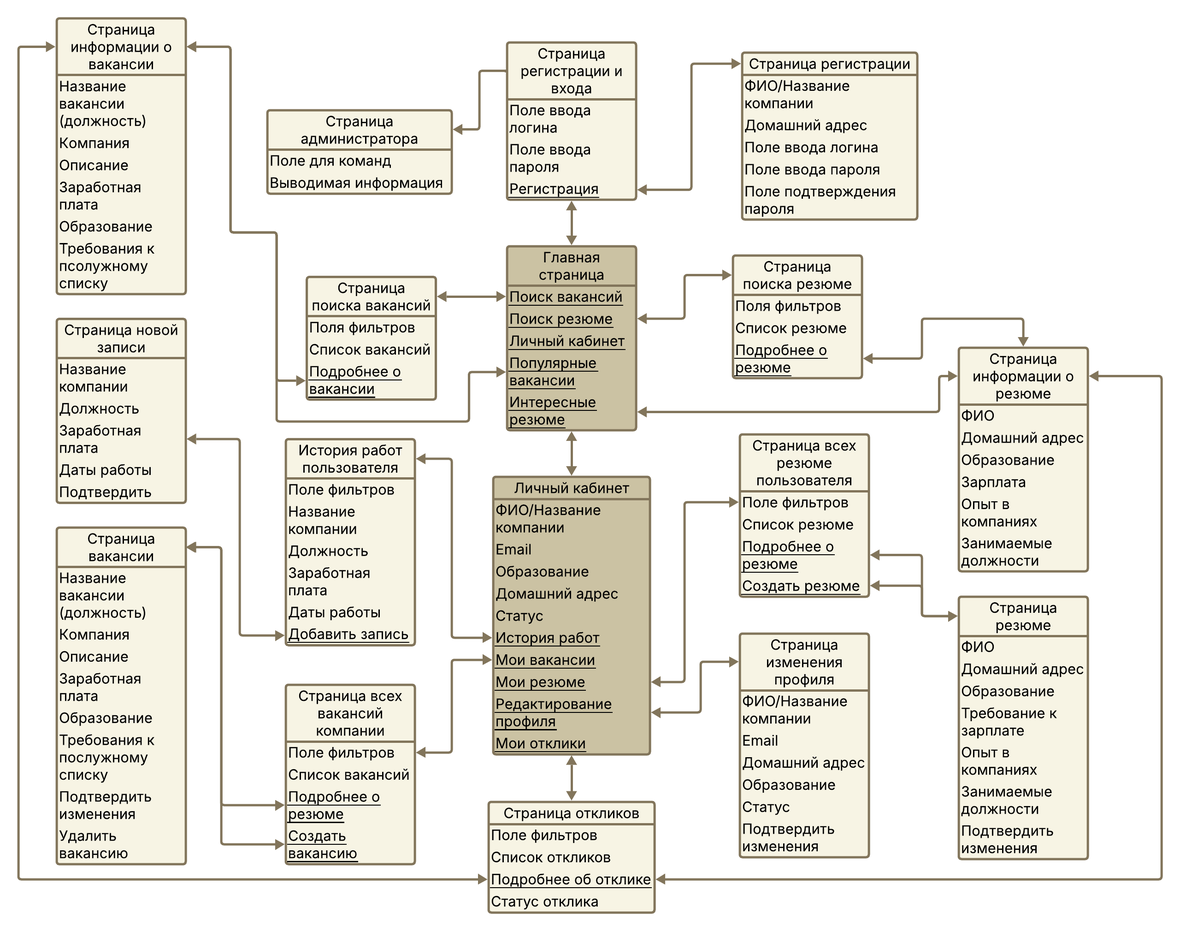
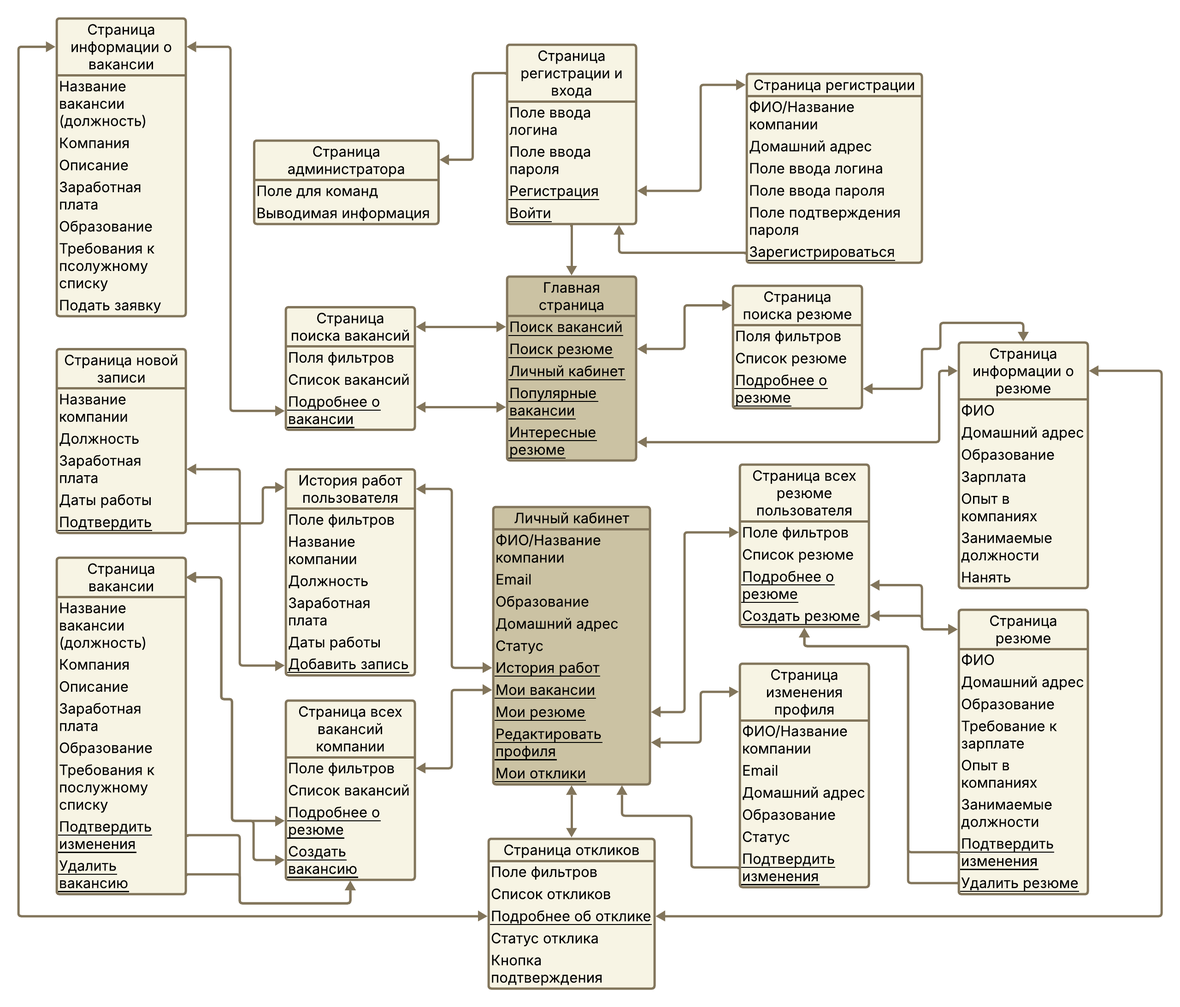
Correction of defects
- Correcting the page description, data information, and buttons on it
- Clarifying usage scenarios
- Adjusting the layout for site navigation, according to the new description

diff --git a/README.md b/README.md
@@ -12,11 +12,12 @@
 * Администратор (Ad)
 
 ### Главная страница
-* Переход на страницу с вакансиями
-* Переход на страницу с резюме
-* Переход в личный кабинет
 * Списком будут отображены самые популярные вакансии (в базе данных для этого храниться специальный атрибут)
 * Списком будут отображены самые популярные резюме (в базе данных для этого храниться специальный атрибут)
+* Кнопка перехода на **Страницу поиска вакансии**
+* Кнопка перехода на **Страницу поиска резюме**
+* Кнопка перехода в **Личный кабинет**
+
 
 ### Личный кабинет
 * Фамилия Имя Отчество (Ap) или Название компании (Em)
@@ -24,9 +25,9 @@
 * Ступень образования (Ap)
 * Домашний адрес (Ap)
 * Статус соискателя (Информация о том, ищет ли он работу или нет) (Ap)
-* Переход на историю трудоустройств соискателя (Ap)
-* Переход на страницу с вакансиями работодателя (Em)
-* Переход на страницу с резюме соискателя (Ap)
+* Кнопка перехода на страницу **История работ пользователя** (Ap)
+* Кнопка перехода на **Страницу всех вакансиями компании** (Em)
+* Кнопка перехода на **Страницу всех резюме пользователя** (Ap)
 * Кнопка **Редактировать профиль** нужна чтобы изменить данные в профиле (осуществиться переход на **Страницу изменения профиля**)
 * Кнопка **Мои отклики** реализует переход на страницу с ответами на заявки к конкретным вакансиям
 
@@ -34,11 +35,10 @@
 * Поле для ввода логина
 * Поле для ввода пароля
 * Кнопка регистрации (При отсутствии аккаунта/особом желании пользователь может зарегестрировать новый аккаунт)
-
-Если логин и пароль принадлежат (Ad), то осуществляется переход на специальную **Страницу администратора**.
+* Кнопка **Войти** активирует начало проверки данных. При совпадении данных, введённых пользователем, происходит переход на **Главную страницу**. Если логин и пароль принадлежат администратору (Ad), то осуществляется переход на специальную **Страницу администратора**.
 
 ### Страница администратора (Ad)
-* Поле для ввода команд, управляющих БД
+* Поле для ввода команд, управляющих БД (Терминал БД)
 * Поле для получения обратной и отладочной информации от БД
 
 ### Страница регистрации
@@ -47,6 +47,7 @@
 * Поле для ввода логина нового пользователя
 * Поле для ввода пароля нового пользователя
 * Поле для подтверждения пароля, который пользователь ввёл выше
+* Кнопка **Зарегистрироваться** инициирует запись нового пользователя в БД и осуществляет переход на **Страница регистрации и входа**
 
 ### Страница откликов
 * Специальные фильтры для более удобного вывода информации
@@ -55,8 +56,9 @@
   * Статус (_На модерации_, _Одобрено_, _Отклонено_)
   * Дата подачи
 * Далее будут расположены все обращения или ответы на резюме (Ap) и вакансии (Em) соответственно
-* На каждом из пунктов списка будет кнопка, которая реализует переход на страницу с подробной информацией о заявке
+* На каждом из пунктов списка будет кнопка **Подробнее об отклике**, которая реализует переход на страницу с подробной информацией о заявке
 * Статус отклика
+* Кнопка для выбора статуса отклика (Работодатель может выбрать статус для заявки на вакансию, а соискатель на предложение на своё резюме)
 
 ### Страница поиска вакансий
 * Специальные фильтры для более удобного вывода информации
@@ -65,7 +67,7 @@
   * Должность
   * Степень образования
 * Далее будет расположен список вакансий, удовлетворяющий условиям фильтрации
-* На каждом из пунктов списка будет кнопка, которая реализует переход на страницу с подробной информацией о вакансии
+* На каждом из пунктов списка будет кнопка **Подробнее о вакансии**, которая реализует переход на **Страницу информации о вакансии**
 
 ### Страница иформации о вакансии
 * Название вакансии
@@ -74,6 +76,7 @@
 * Предлагаемая заработная плата
 * Необходимое образование
 * Требования к послужному списку
+* Кнопка **Подать заявку** (При нажатии на неё создаётся отклик. Его можно будет посмотреть в личном кабинете. При повторном нажатии заявка будет отменена, а запись об отклике будет удалена)
 
 ### Страница поиска резюме
 * Специальные фильтры для более удобного вывода информации
@@ -82,7 +85,7 @@
   * Занимаемые должности
   * Требуемая заработная плата
 * Далее будет расположен список резюме, удовлетворяющий условиям фильтрации
-* На каждом из пунктов списка будет кнопка, которая реализует переход на страницу с подробной информацией о резюме
+* На каждом из пунктов списка будет кнопка **Подробнее о резюме**, которая реализует переход на **Страницу информации о резюме**
 
 ### Страница информации о резюме
 * Фамилия Имя Отчество
@@ -91,6 +94,7 @@
 * Заработная плата, которую хочет соискатель
 * Прошлый опыт в компаниях
 * Занимаемые должности
+* Кнопка **Нанять** (При нажатии на неё создаётся отклик. Его можно будет посмотреть в личном кабинете. При повторном нажатии заявка будет отменена, а запись об отклике будет удалена)
 
 ### История работ пользователя
 * Специальные фильтры для более удобного вывода информации
@@ -104,15 +108,15 @@
   * Заработная плата
   * Даты начала работы на этой должности
   * Даты окончания работы на этой должности
-* Переход на форму для создания новой записи
+* Кнопка **Добавить запись** активирует переход на **Страницу новой записи**
 
 ### Страница новой записи
-* Название компании
-* Должность
-* Заработная плата
-* Даты начала работы на этой должности
-* Даты окончания работы на этой должности
-* Кнопка подтверждения
+* Поле для ввода названия компании
+* Поле для ввода должности
+* Поле для ввода заработной платы
+* Поле для ввода даты начала работы на этой должности
+* Поле для ввода даты окончания работы на этой должности
+* Кнопка **Подтвердить** сохраняет новую запись и осуществляет переход обратно на страницу **История работ пользователя**
 
 ### Страница всех вакансий компании (Em)
 * Специальные фильтры для более удобного вывода информации
@@ -121,18 +125,18 @@
   * Необходимая ступень образования
   * Требования к послужному списку
 * Далее будет расположен список вакансий, удовлетворяющий условиям фильтрации
-* На каждом из пунктов списка будет кнопка, которая реализует переход на страницу с подробной информацией о вакансии
-* Переход на форму создания вакансии
+* На каждом из пунктов списка будет кнопка **Подробнее о резюме**, которая реализует переход на **Страницу вакансии**
+* Кнопка **Создать вакансию** активирует переход на **Страницу вакансии** для создания новой записи
 
 ### Страница вакансии (Em)
-* Должность
-* Компания
-* Описание
-* Заработная плата
-* Образование
-* Требования к послужному списку
-* Кнопка для сохранения изменений в иформации о вакансии
-* Кнопка удаления вакансии
+* Поле для ввода должности
+* Поле для ввода компании (Например, если работодателю нужно создать вакансию от имени дочернего предприятия)
+* Поле для ввода описания
+* Поле для ввода заработной платы
+* Поле для ввода необходимого образования
+* Поле для ввода требований к послужному списку
+* Кнопка **Подтвердить** сохраняет новую заявку или исправляет старую запись о вакансии и активирует переход обратно на **Страницу всех вакансий компании**
+* Кнопка **Удалить вакансию** удаляет существующую вакансию и активирует переход обратно на **Страницу всех вакансий компании**
 
 ### Страница всех резюме пользователя
 * Специальные фильтры для более удобного вывода информации
@@ -142,52 +146,53 @@
   * Опыт в компаниях (Для работодателя могут быть важны схожие компании)
   * Занимаемые должности (На разные должности важны близкий должности)
 * Далее будет расположен список резюме, удовлетворяющий условиям фильтрации
-* На каждом из пунктов списка будет кнопка, которая реализует переход на страницу с подробной информацией о вакансии
-* Переход на форму создания резюме
+* На каждом из пунктов списка будет кнопка **Подробнее о резюме**, которая реализует переход на **Страницу резюме**
+* Кнопка **Создать резюме** активирует переход на **Страницу резюме** для создания новой записи
 
 ### Страница резюме (Ap)
-* Фамилия Имя Отчество
-* Домашний адрес
-* Образование (Возможно на разные вакансии нужны разные дипломы)
-* Требование к заработной плате
-* Опыт в компаниях (Для работодателя могут быть важны схожие компании)
-* Занимаемые должности (На разные должности важны близкий должности)
-* Кнопка для сохранения изменений в иформации о резюме
+* Поле для ввода Фамилии Имени  Отчества
+* Поле для ввода домашнего адреса
+* Поле для ввода образования (Возможно на разные вакансии нужны разные дипломы)
+* Поле для ввода требования к заработной плате
+* Поле для ввода опыта работы в компаниях (Для работодателя могут быть важны схожие компании)
+* Поле для ввода занимаемых должностей (На разные должности важны близкий должности)
+* Кнопка **Подтвердить изменения** сохраняет новую заявку или исправляет старую запись о вакансии и активирует переход обратно на **Страницу всех резюме пользователя**
+* Кнопка **Удалить резюме** удаляет существующее резюме и активирует переход обратно на **Страницу всех резюме пользователя**
 
 ### Страница изменения профиля
-* Фамилия Имя Отчество
-* Email
-* Домашний адрес
-* Образование
-* Статус (Ищет ли пользователь рабочее место для своих резюме)
-* Кнопка для сохранения изменений в иформации в профиле
+* Поле для ввода Фамилии Имени Отчества
+* Поле для ввода Email
+* Поле для ввода домашнего адреса
+* Поле для ввода образования
+* Поле для выбора статуса (Ищет ли пользователь рабочее место для своих резюме)
+* Кнопка **Подтвердить изменения** исправляет старую запись профиля и активирует переход обратно в **Личный кабинет**
 
 
 ## Сценарии использования
 
 1. Получение списка резюме по образованию, компаниям, в которых люди работали, по занимавшимся должностям, зарплатам
-    * Главная страница ➤ Страница поиска резюме ➤ Выставление необходимых фильтров
+    * На **Главной странице** нажать кнопку _Поиск резюме_ ➤ На **Страница поиска резюме** выставить необходимые фильтры
 2. Получение списка вакансий по компаниям, должностям, зарплатам
-    * Главная страница ➤ Страница поиска вакансий ➤ Выставление необходимых фильтров
+    * На **Главной странице** нажать кнопку _Поиск вакансий_ ➤ На **Страница поиска вакансий** выставить необходимые фильтры
 3. Получение истории работы для данного человека
-    * Главная страница ➤ Личный кабинет ➤ История работ пользователя
+    * На **Главная странице** нажать кнопку _Личный кабинет_ ➤ В **Личном кабинете** нажать на кнопку _История работ_
 4. Поиск подходящих вакансий на резюме и подходящих резюме на вакансию
-    * Главная страница ➤ Страница поиска вакансий ➤ Выставление необходимых фильтров
-    * Главная страница ➤ Страница поиска резюме ➤ Выставление необходимых фильтров
+    * На **Главной странице** нажать кнопку _Поиск вакансий_ ➤ На **Страница поиска вакансий** выставить необходимые фильтры
+    * На **Главной странице** нажать кнопку _Поиск резюме_ ➤ На **Страница поиска резюме** выставить необходимые фильтры
 5. Добавление и удаление данных о человеке, чтение и редактирование данных о нем, добавление данных о новом трудоустройстве
-    * Страница регистрации регистрации и входа ➤ Страница регистрации ➤ Ввод данных человека
-    * Страница регистрации регистрации и входа ➤ Страница администратора ➤ Использование команд, необходимых для удаления пользователя (Ad)
-    * Главная страница ➤ Личный кабинет (Ap)
-    * Главная страница ➤ Личный кабинет ➤ Страница изменения профиля (Ap)
-    * Главная страница ➤ Личный кабинет ➤ История работ пользователя ➤ Страница новой записи (Ap)
+    * На **Странице регистрации и входа** нажать кнопку _Регистрация_ ➤ На **Странице регистрации** ввести данные человека и нажать кнопку _Зарегистрироваться_
+    * На **Странице регистрации и входа** ввести логин и пароль администратора и нажать кнопку _Войти_ ➤ На **Странице администратора** в _Поле для команд_ ввести команды, необходимые для удаления пользователя (Ad)
+    * На любой странице нажать кнопку _Личный кабинет_ (Она будет расположена в верхнем углу сайта; На **Главной странице** будет ещё и кнопка _Личный кабинет_)
+    * На **Главной странице** нажать кнопку _Личный кабинет_ ➤ В **Личном кабинете** нажать на кнопку _Редактировать профиль_ ➤ На **Странице изменения профиля** ввести или исправить необходимые данные и нажать на кнопку _Подтвердить изменения_
+    * На любой странице нажать кнопку _Личный кабинет_ ➤ В **Личном кабинете** нажать кнопку _История работ_ ➤ На странице **История работ пользователя** нажать кнопку _Добавить запись_ ➤ На **Странице новой записи** ввести необходимые данные (Ap)
 6. Добавление и удаление компании, чтение и редактирование данных о них, добавление, удаление и редактирование вакансий
-    * Страница регистрации регистрации и входа ➤ Страница регистрации ➤ Ввод данных компании (Em)
-    * Страница регистрации регистрации и входа ➤ Страница администратора ➤ Использование команд, необходимых для удаления пользователя (Ad)
-    * Главная страница ➤ Личный кабинет (Em)
-    * Главная страница ➤ Личный кабинет ➤ Страница изменения профиля (Em)
-    * Главная страница ➤ Личный кабинет ➤ Страница всех вакансий компании ➤ Страница вакансии ➤ Заполнение данных новой вакансии
-    * Главная страница ➤ Личный кабинет ➤ Страница всех вакансий компании ➤ Страница вакансии ➤ Удаление вакансии
-    * Главная страница ➤ Личный кабинет ➤ Страница всех вакансий компании ➤ Страница вакансии ➤ Редактирование вакансии ➤ Подтверждение изменений
+    * На **Странице регистрации и входа** нажать кнопку _Регистрация_ ➤ На **Странице регистрации** ввести данные компании и нажать кнопку _Зарегистрироваться_
+    * На **Странице регистрации и входа** ввести логин и пароль администратора и нажать кнопку _Войти_ ➤ На **Странице администратора** в _Поле для команд_ ввести команды, необходимые для удаления пользователя (Ad)
+    * На любой странице нажать кнопку _Личный кабинет_
+    * На **Главной странице** нажать кнопку _Личный кабинет_ ➤ В **Личном кабинете** нажать на кнопку _Редактировать профиль_ ➤ На **Странице изменения профиля** ввести или исправить необходимые данные и нажать на кнопку _Подтвердить изменения_
+    * На любой странице нажать кнопку _Личный кабинет_ ➤ В **Личном кабинете** нажать кнопку _Мои вакансии_ ➤ На странице **Все вакансии компании** нажать кнопку _Создать вакансию_ ➤ На **Странице вакансии** ввести необходимые данные и нажать кнопку _Подтвердить изменения_ (Ap)
+    * На любой странице нажать кнопку _Личный кабинет_ ➤ В **Личном кабинете** нажать кнопку _Мои вакансии_ ➤ На странице **Все вакансии компании** на нужной записи нажать кнопку _Подробнее о резюме_ ➤ На **Странице вакансии** нажать кнопку _Удалить вакансию_ (Ap)
+    * На любой странице нажать кнопку _Личный кабинет_ ➤ В **Личном кабинете** нажать кнопку _Мои вакансии_ ➤ На странице **Все вакансии компании** нажать кнопку _Создать вакансию_ ➤ На **Странице вакансии** ввести необходимые данные и нажать кнопку _Подтвердить изменения_ (Ap)
 
 ## Схема базы данных сайта
 ![website_database](images/website_database.png)
